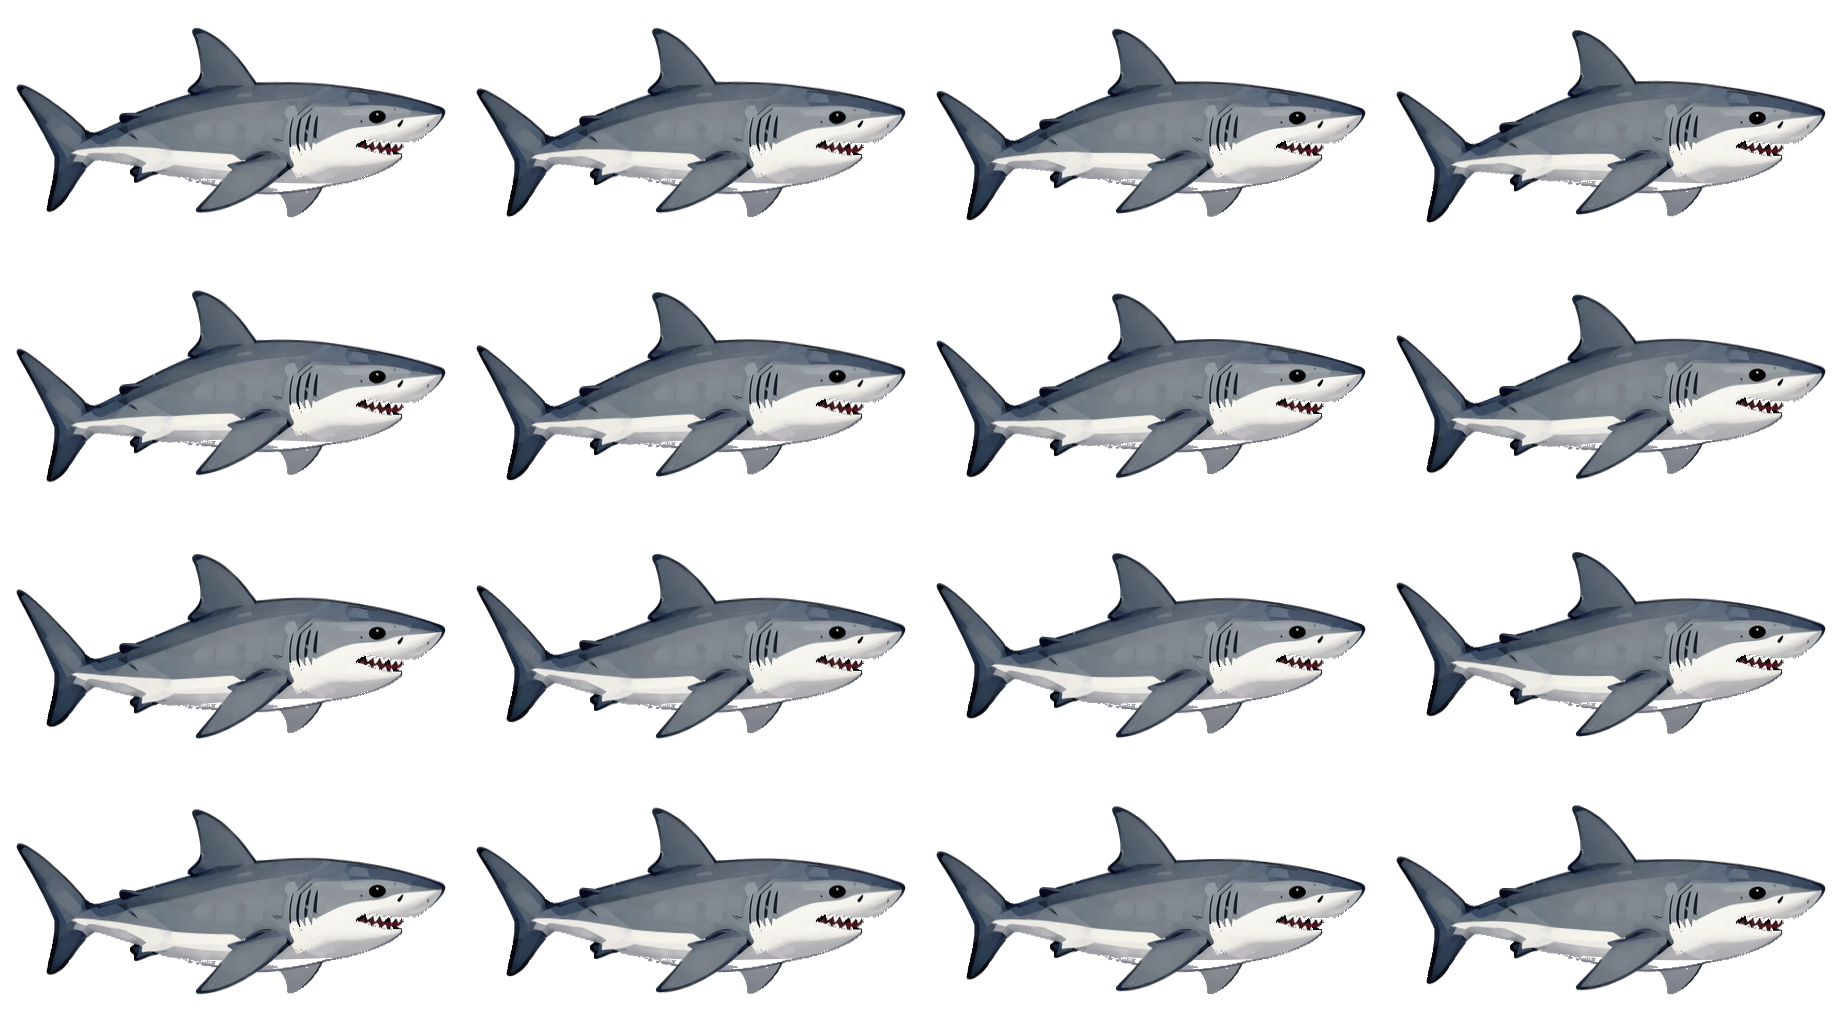
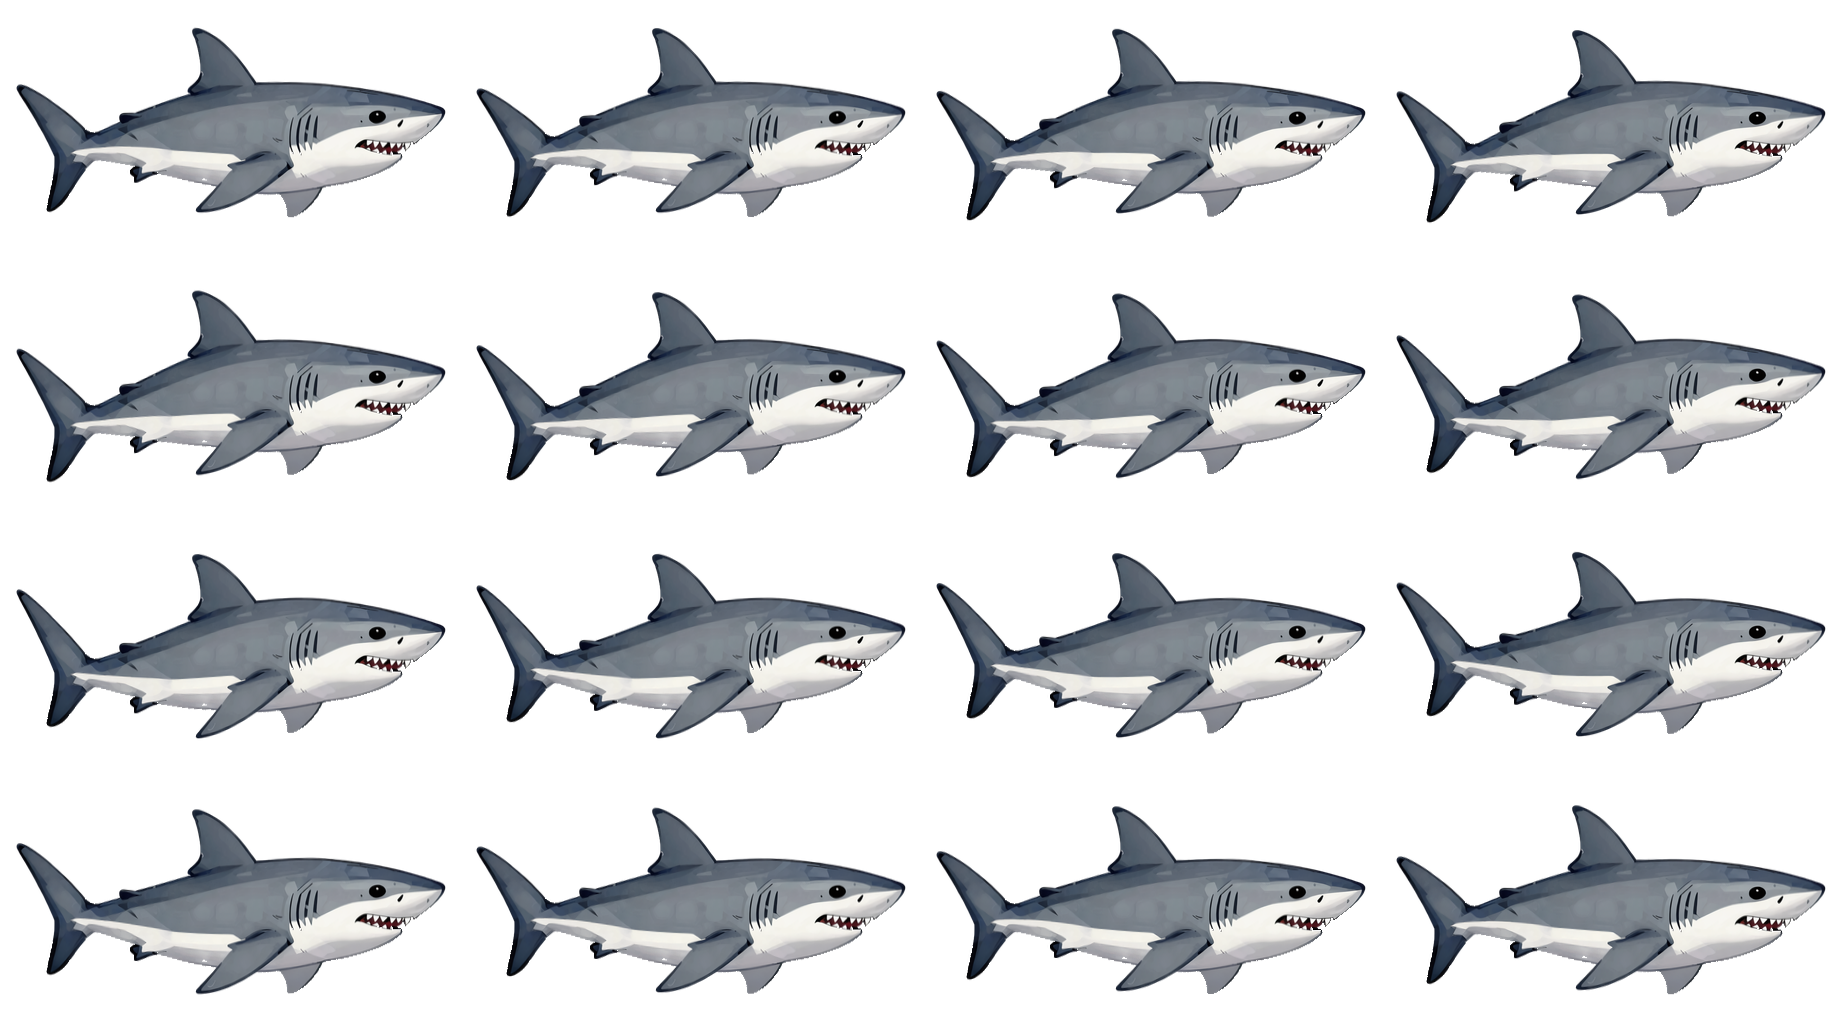
Fix fish bellies eaten by shadow filter (protect light/opaque bellies); regen all 10 sheets, bump anim ?v=4

diff --git a/fish-hunter/game.js b/fish-hunter/game.js
@@ -158,7 +158,7 @@ cannonImg.src = 'assets/cannon.png';
 const ANIM = {};
 [['minnow',0.013],['darter',0.014],['ray',0.012],['seacat',0.011],['angler',0.012],['golden',0.012],['levia',0.010],['shark',0.011],['whale',0.009],['megalodon',0.010]].forEach(function(e){
   const k=e[0], img=new Image(), o={img:img,cols:4,rows:4,frames:16,rate:e[1],ready:false};
-  img.onload=function(){ o.ready=true; }; img.src='assets/'+k+'-anim.png?v=3'; ANIM[k]=o;
+  img.onload=function(){ o.ready=true; }; img.src='assets/'+k+'-anim.png?v=4'; ANIM[k]=o;
 });
 
 // ===== CANNON SKINS =====
